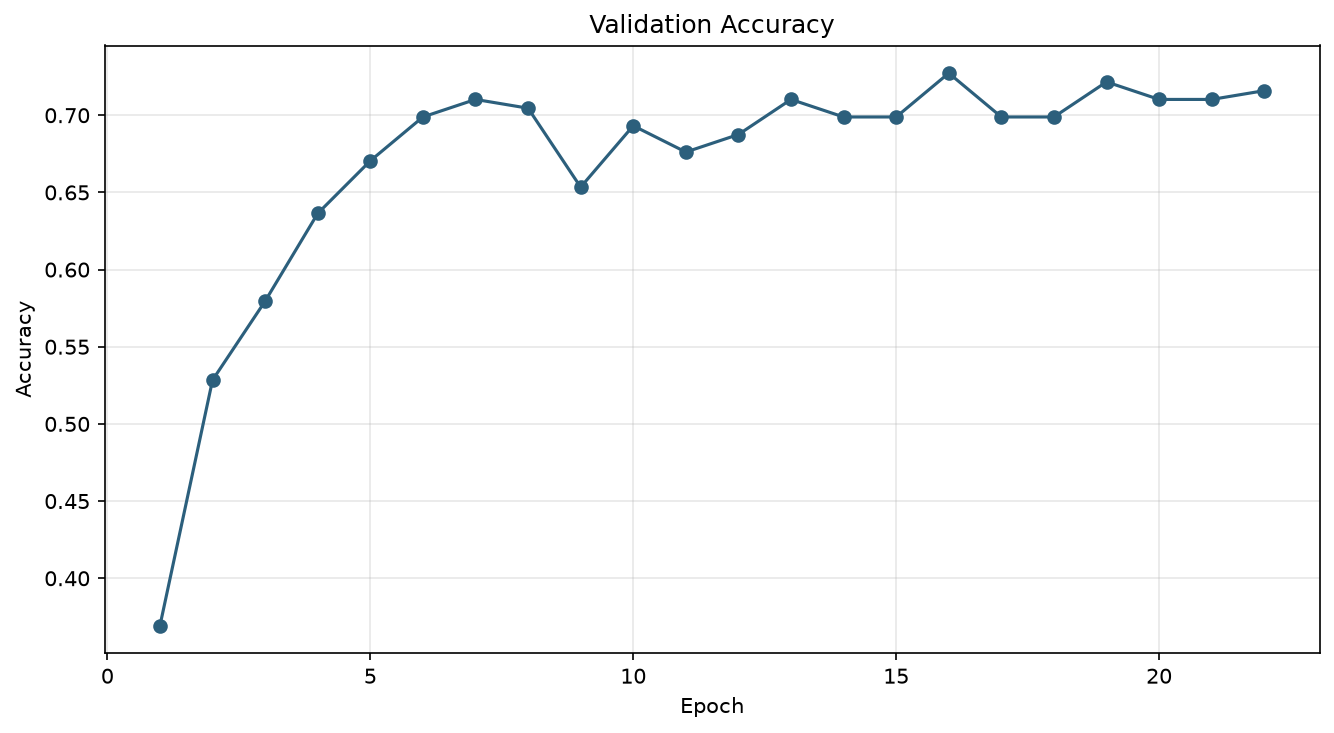
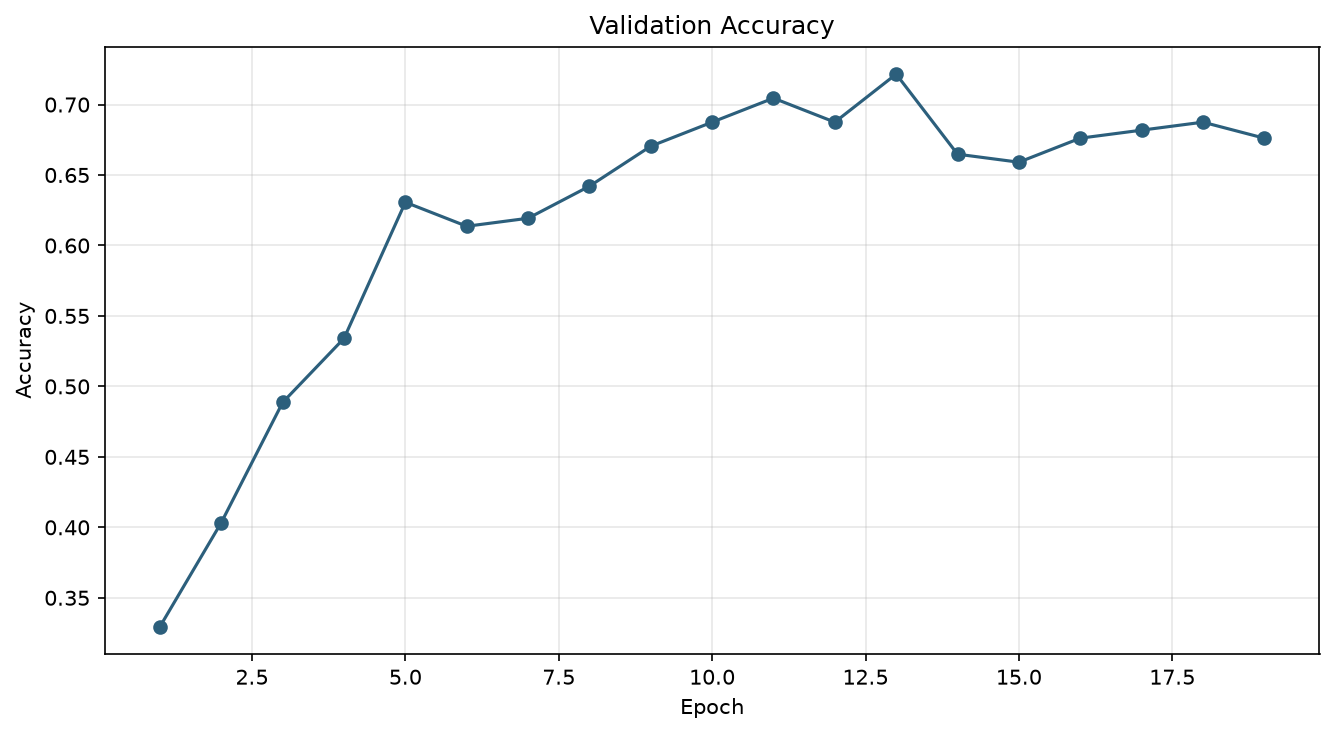
Select focused CE as final model

diff --git a/README.md b/README.md
@@ -36,6 +36,8 @@ training targets.
 |   |-- run_pipeline.py
 |   |-- run_training.py
 |   |-- run_evaluation.py
+|   |-- run_ordinal_experiments.py
+|   |-- run_focused_experiments.py
 |   `-- compare_checkpoints.py
 |-- utils/
 |-- README.md
@@ -79,7 +81,7 @@ python scripts/run_pipeline.py --skip-training
 Evaluate a specific checkpoint:
 
 ```bash
-python scripts/run_evaluation.py --model-path saved_model/tune/best_model_Run_4_Vanilla_CE.pt
+python scripts/run_evaluation.py --model-path saved_model/focused_experiments/best_model_focused_ce_do_0_20_lr_1_2e5_ls_0_03.pt
 ```
 
 Compare all tuned checkpoints against validation and test splits:
@@ -88,31 +90,54 @@ Compare all tuned checkpoints against validation and test splits:
 python scripts/compare_checkpoints.py --include-current
 ```
 
-## Current Best Training Recipe
+## Final Model
 
-The strongest saved sweep run is `Run_4_Vanilla_CE`:
+The final model selected for SHAP/LIME and downstream explanation is
+`focused_ce_do_0_20_lr_1_2e5_ls_0_03`.
 
 - Loss: cross entropy
-- Learning rate: `1.5e-5`
-- Dropout: `0.15`
-- Weight decay: `0.01`
-- Label smoothing: `0.0`
+- Learning rate: `1.2e-5`
+- Dropout: `0.20`
+- Weight decay: `0.02`
+- Label smoothing: `0.03`
 - Class weights: disabled
 - Weighted sampler: disabled
-- Best epoch: `16`
+- Checkpoint selection: composite score using weighted F1, macro F1, and
+  quadratic weighted kappa
+- Best epoch: `13`
 
-Earlier tuning showed this recipe produced the best validation accuracy,
-macro F1, and weighted F1 among the saved sweep runs.
+This focused CE model is used as the main model because it gives the strongest
+overall F1 balance while remaining simpler to explain with softmax
+probabilities and word-level SHAP/LIME attributions.
 
 ## Best Results
 
-Best checkpoint: `saved_model/tune/best_model_Run_4_Vanilla_CE.pt`
+Final checkpoint:
+`saved_model/focused_experiments/best_model_focused_ce_do_0_20_lr_1_2e5_ls_0_03.pt`
 
 | Split | Accuracy | Macro F1 | Weighted F1 | Loss |
 | --- | ---: | ---: | ---: | ---: |
-| Train | 99.88% | 99.70% | 99.88% | 0.0112 |
-| Validation | 72.73% | 64.17% | 72.08% | 1.4932 |
-| Test | 70.45% | 61.77% | 70.74% | 1.5398 |
+| Train | 95.48% | 84.08% | 94.61% | 0.2925 |
+| Validation | 72.16% | 61.31% | 71.55% | 1.0703 |
+| Test | 73.30% | 62.68% | 73.35% | 0.9863 |
+
+## Retained Comparison Model
+
+The ordinal CE model is retained for explanation and ablation, but it is not the
+main SHAP/LIME model:
+
+Checkpoint:
+`saved_model/ordinal_experiments/best_model_ordinal_ce_dw_0_30_do_0_25.pt`
+
+| Model | Test Accuracy | Test Macro F1 | Test Weighted F1 | Test QWK | Test Within-1 | Test High-Severity F1 |
+| --- | ---: | ---: | ---: | ---: | ---: | ---: |
+| Final focused CE | 73.30% | 62.68% | 73.35% | 79.32% | 85.80% | 78.87% |
+| Retained ordinal CE | 73.86% | 60.23% | 72.55% | 81.66% | 87.50% | 80.00% |
+
+The ordinal model remains useful because severity labels are ordered from `0` to
+`6`, so QWK, within-1 accuracy, and high-severity F1 show whether mistakes stay
+near the correct severity band. The focused CE model is kept as final because it
+has the best macro and weighted F1 for class-level explanation.
 
 ### Training Curves
 
